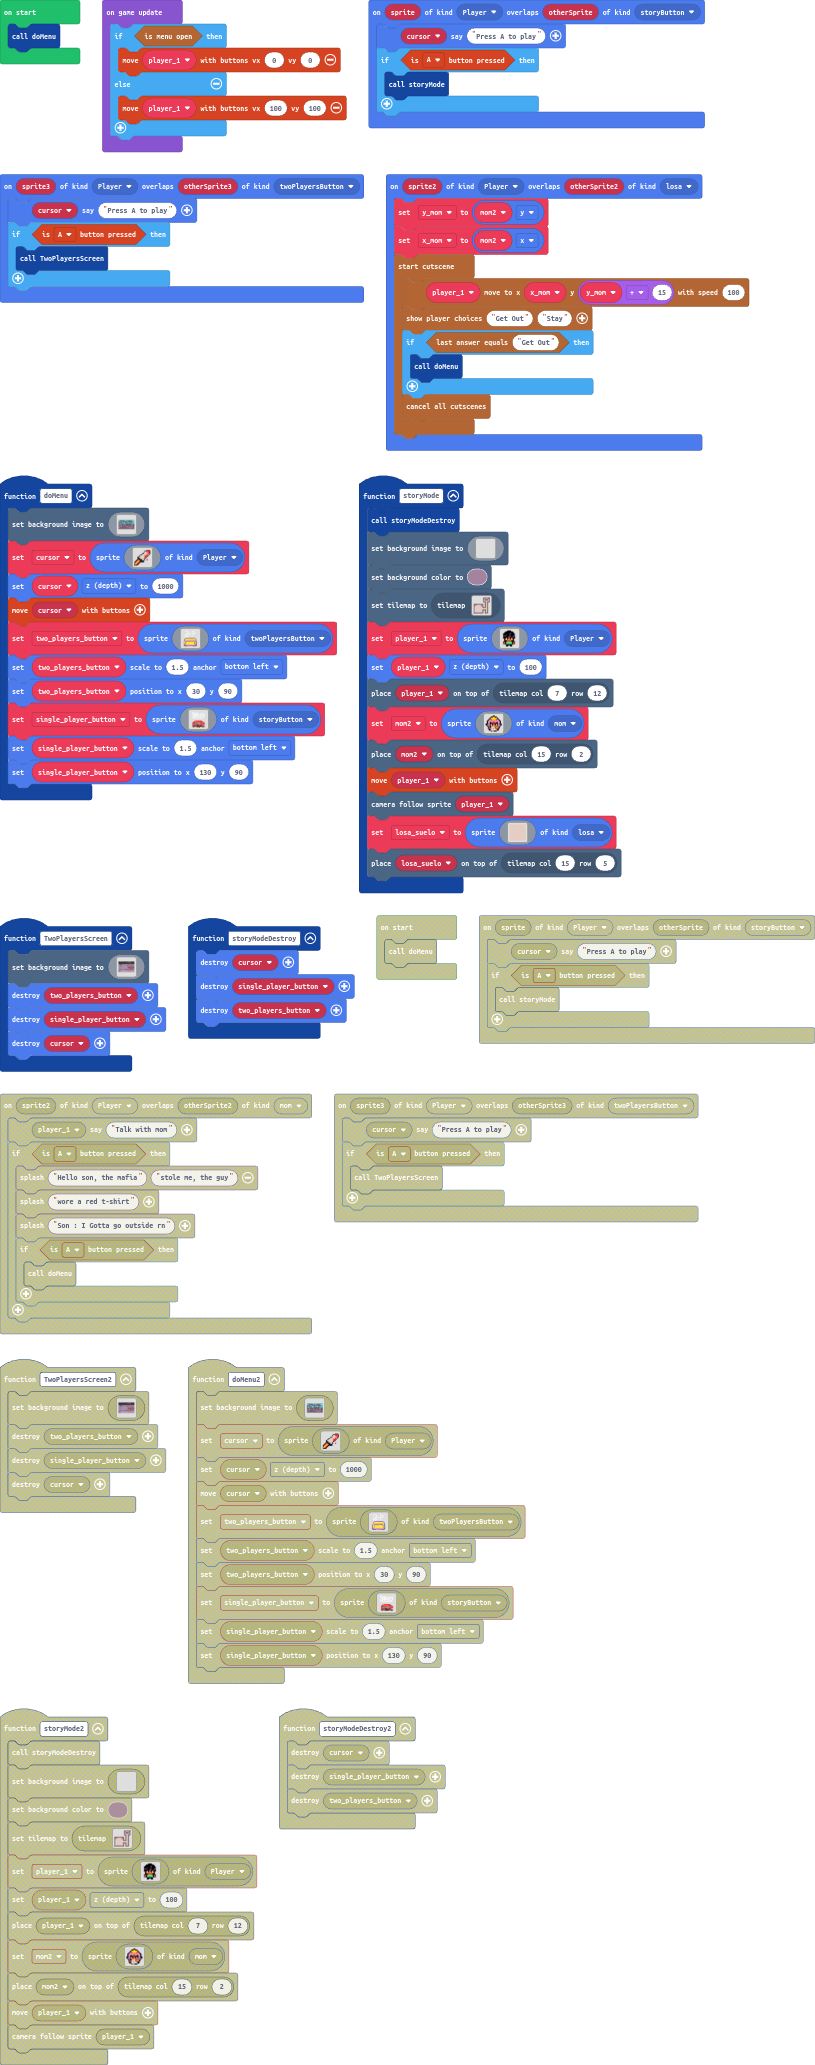
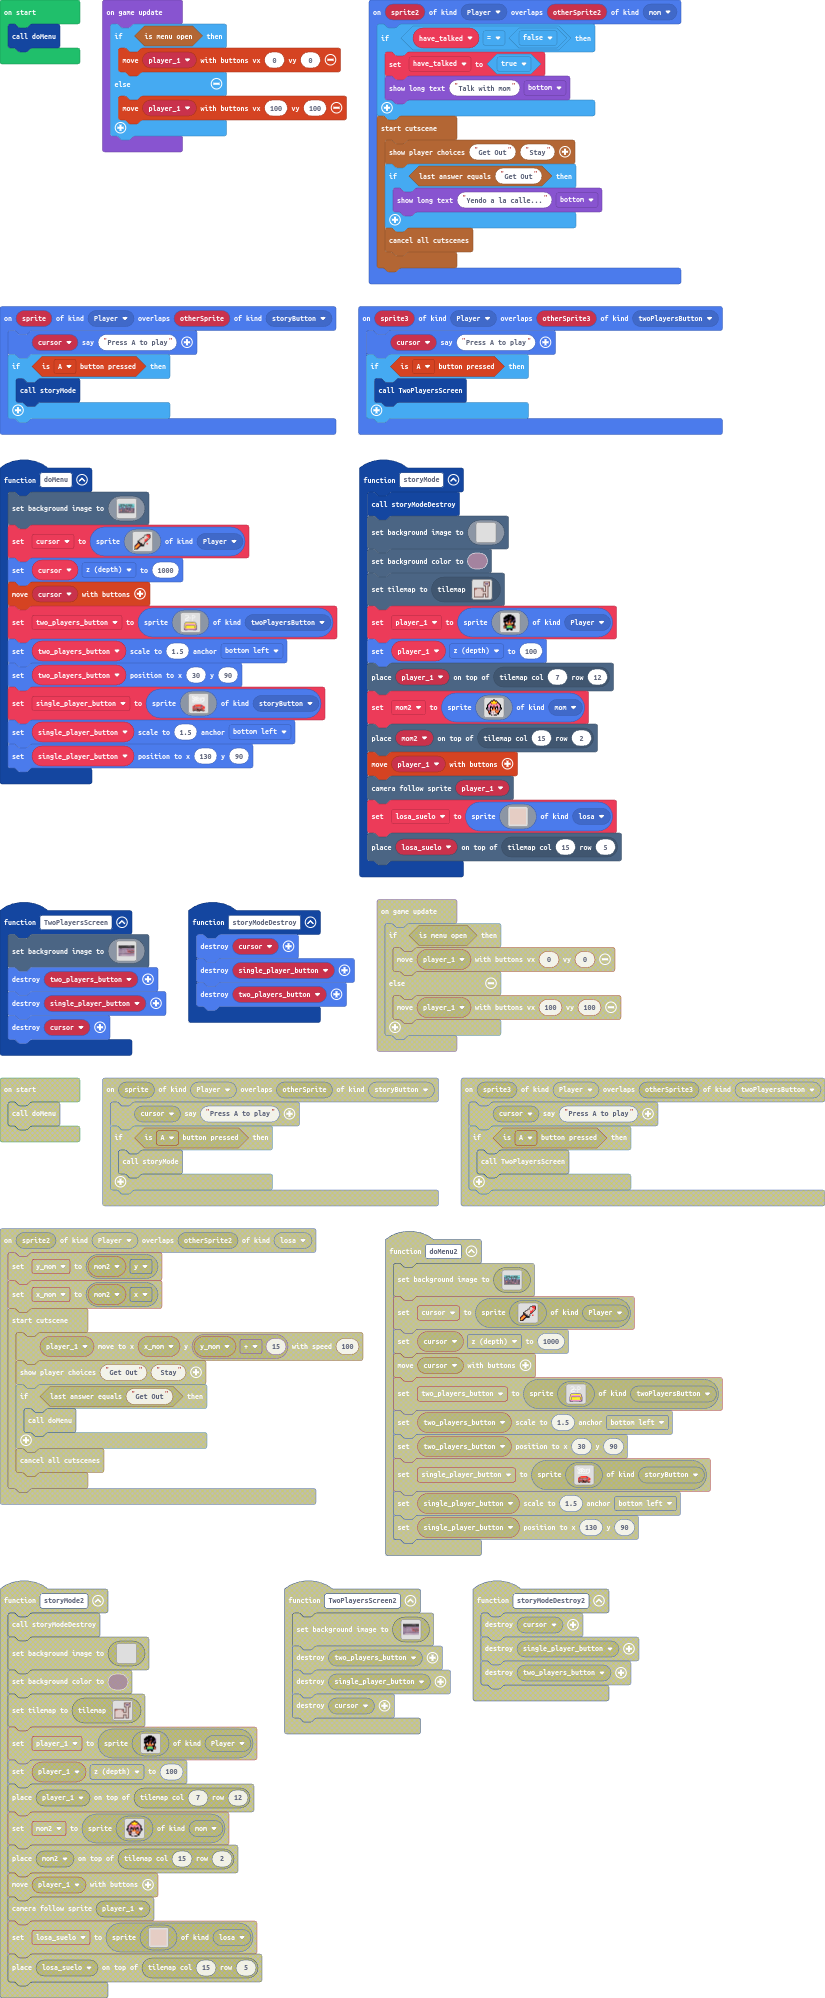
Cutscene

diff --git a/main.ts b/main.ts
@@ -505,26 +505,26 @@ function doMenu () {
     single_player_button.setScale(1.5, ScaleAnchor.BottomLeft)
     single_player_button.setPosition(130, 90)
 }
-sprites.onOverlap(SpriteKind.Player, SpriteKind.losa, function (sprite2, otherSprite2) {
-    y_mom = mom2.y
-    x_mom = mom2.x
-    story.startCutscene(function () {
-        story.spriteMoveToLocation(player_1, x_mom, y_mom + 15, 100)
-        story.showPlayerChoices("Get Out", "Stay")
-        if (story.checkLastAnswer("Get Out")) {
-            doMenu()
-        }
-        story.cancelAllCutscenes()
-    })
-})
 sprites.onOverlap(SpriteKind.Player, SpriteKind.twoPlayersButton, function (sprite3, otherSprite3) {
     cursor.sayText("Press A to play")
     if (controller.A.isPressed()) {
         TwoPlayersScreen()
     }
 })
-let x_mom = 0
-let y_mom = 0
+sprites.onOverlap(SpriteKind.Player, SpriteKind.mom, function (sprite2, otherSprite2) {
+    if (have_talked == false) {
+        have_talked = true
+        game.showLongText("Talk with mom", DialogLayout.Bottom)
+    }
+    story.startCutscene(function () {
+        story.showPlayerChoices("Get Out", "Stay")
+        if (story.checkLastAnswer("Get Out")) {
+            game.showLongText("Yendo a la calle...", DialogLayout.Bottom)
+        }
+        story.cancelAllCutscenes()
+    })
+})
+let have_talked = false
 let losa_suelo: Sprite = null
 let mom2: Sprite = null
 let player_1: Sprite = null

diff --git a/main.py b/main.py
@@ -513,31 +513,30 @@ def doMenu():
     single_player_button.set_scale(1.5, ScaleAnchor.BOTTOM_LEFT)
     single_player_button.set_position(130, 90)
 
-def on_on_overlap2(sprite2, otherSprite2):
-    global y_mom, x_mom
-    y_mom = mom2.y
-    x_mom = mom2.x
-    
-    def on_start_cutscene():
-        story.sprite_move_to_location(player_1, x_mom, y_mom + 15, 100)
-        story.show_player_choices("Get Out", "Stay")
-        if story.check_last_answer("Get Out"):
-            doMenu()
-        story.cancel_all_cutscenes()
-    story.start_cutscene(on_start_cutscene)
-    
-sprites.on_overlap(SpriteKind.player, SpriteKind.losa, on_on_overlap2)
-
-def on_on_overlap3(sprite3, otherSprite3):
+def on_on_overlap2(sprite3, otherSprite3):
     cursor.say_text("Press A to play")
     if controller.A.is_pressed():
         TwoPlayersScreen()
 sprites.on_overlap(SpriteKind.player,
     SpriteKind.twoPlayersButton,
-    on_on_overlap3)
+    on_on_overlap2)
 
-x_mom = 0
-y_mom = 0
+def on_on_overlap3(sprite2, otherSprite2):
+    global have_talked
+    if have_talked == False:
+        have_talked = True
+        game.show_long_text("Talk with mom", DialogLayout.BOTTOM)
+    
+    def on_start_cutscene():
+        story.show_player_choices("Get Out", "Stay")
+        if story.check_last_answer("Get Out"):
+            game.show_long_text("Yendo a la calle...", DialogLayout.BOTTOM)
+        story.cancel_all_cutscenes()
+    story.start_cutscene(on_start_cutscene)
+    
+sprites.on_overlap(SpriteKind.player, SpriteKind.mom, on_on_overlap3)
+
+have_talked = False
 losa_suelo: Sprite = None
 mom2: Sprite = None
 player_1: Sprite = None
